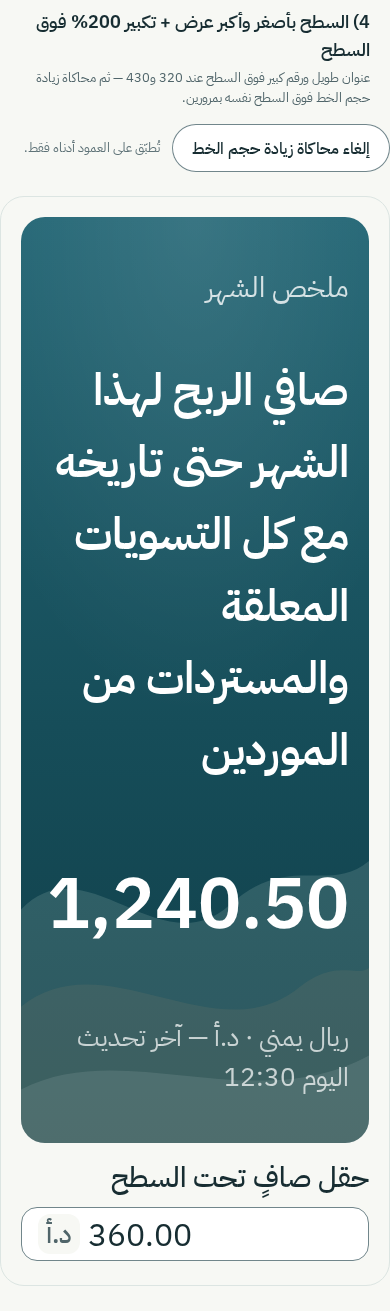
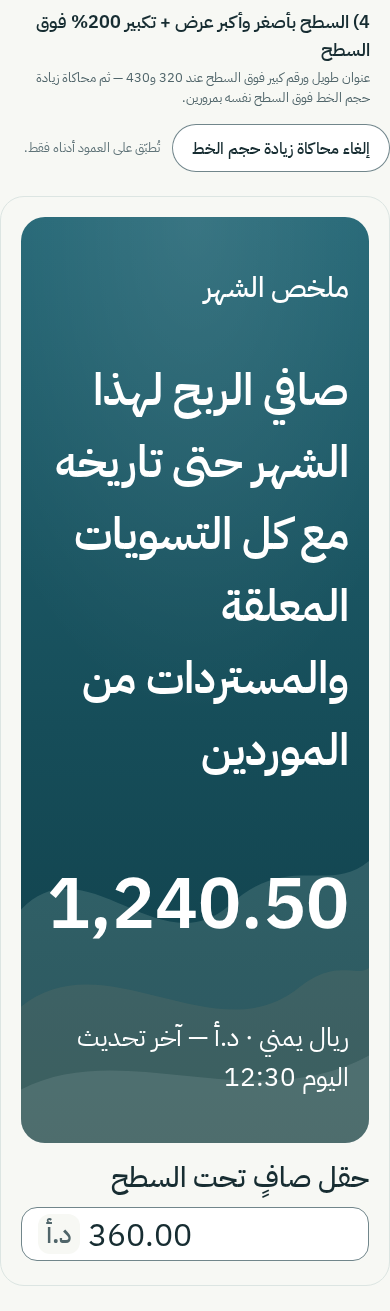
DELIVERY-R3: أدلة ومع سجلات من شجرة commit المصدر 1c2452e (بصمة الشجرة في رأس السجلين) — S01 35/35 (بوابة C1: أدوار النص الأربعة أبيض مصمت في الافتراضي وv2 بالوضع العادي والتكبير بقياس موضعي فعلي من الإحداثيات نفسها بعد إخفاء رسم النص + تحكم يكشف 0.72 المزالة فشلًا 4.09:1) · B05 26/26 (A17: مقام صفر

diff --git a/docs/UI-COVERAGE-RESULTS.md b/docs/UI-COVERAGE-RESULTS.md
@@ -1,7 +1,8 @@
 # نتائج تغطية تكليف UI — لكل معرف من المصفوفة (UI-COVERAGE-RESULTS)
 
 الحالة: DRAFT FOR RE-REVIEW — هذا تقرير تغطية موثق بالأدلة من المصدر نفسه، وليس ادعاء اكتمال شامل. الحدود غير المفحوصة معلنة في كل تقرير دفعة (قارئ شاشة فعلي، لمس حقيقي، متصفحات غير Chromium، تكبير النظام الأصلي، هاتف حقيقي).
-الدفعات: B01 على فرع `task/b01-buttons` (PR #1 — DRAFT FOR RE-REVIEW، head `71ffff1`)؛ وB02–B07 وS01 على `task/ui-library-expansion` (PR #2 تابع لـ#1 — DRAFT FOR RE-REVIEW بعد DELIVERY-R2، head يتضمن `71ffff1` بدمج عادي 0317cf5). commit مصدر أدلة كل دفعة + بصمة شجرة المصدر مدوّنان في `reviews/<batch>/verification.txt` — أدلة هذه الجولة كلها من شجرة commit المصدر `f4cddd4` (نظيفة).
+الدفعات: B01 على فرع `task/b01-buttons` (PR #1 — DRAFT FOR RE-REVIEW، head `71ffff1`)؛ وB02–B07 وS01 على `task/ui-library-expansion` (PR #2 تابع لـ#1 — DRAFT FOR RE-REVIEW بعد DELIVERY-R3، head يتضمن `71ffff1` بدمج عادي 0317cf5). commit مصدر أدلة كل دفعة + بصمة شجرة المصدر مدوّنان في `reviews/<batch>/verification.txt` — أدلة S01/B05 للجولة الأخيرة من شجرة commit المصدر `1c2452e` (نظيفة)، وسجلات بقية الدفعات من شجرة `f4cddd4` (لم تتغير ملفاتها).
+توضيح تسمية بيئة الفحص (C1): فحوص المنفذ تعمل بمتصفح headless فعلي (Playwright + Chromium) — ليست محاكاة DOM؛ قياسات التباين الموضعية من لقطات بكسل حقيقية للمتصفح. حدود الفحوص المعلنة دون تغيير: لا قارئ شاشة فعلي، لا جهاز لمس، لا متصفحات غير Chromium، لا تكبير نظام/متصفح أصلي، لا هاتف حقيقي.
 أمر تشغيل المعاينات: `python3 -m http.server 8080` من جذر نسخة نظيفة ثم `/previews/` — فهرسها: `previews/index.html`.
 
 ## DELIVERY-R1 — إصلاحات E01–E12 (PR #2 وما يخص B01 في #1)
@@ -36,6 +37,16 @@ commit المصدر للأدلة: `f4cddd4` (بصمة الشجرة `1b1179673bec
 | R2-05 | `components/data/data.js` · `components/data/specification.md` · `previews/data/index.html` | تحليل رقم كامل لا بادئة (`12oops` مجهول لا 12) لكل القيم وdata-max/data-rmax/data-total؛ donut: «لا قيمة صالحة» مركز «—» وتسمية «لا توجد بيانات» (لا صفر)، «قيم معلومة كلها صفر» صادقة (المقام المعلن أو 0)، «خلط مجهول/صفر» → «الإجمالي غير معلوم»؛ المقام الغائب → مجموع الفئات (بديل موثق)، والمقام الموجود غير الصالح → رسالة خطأ صريحة لا سقوط صامت | B05 A10 (تحديث: التوزيع الصفري بالمقام المعلن 100 في المركز بلا NaN) · A12 (all-null / all-zero / mix null-zero / `12oops` / مقام غائب 4+6→10 / `data-total="bad"` → خطأ صريح)؛ بقيت فحوص النسب الصغيرة والفجوة وتجاوز المقام (A6/A10/A11) | `f4cddd4` |
 | R2-06 | `components/fields/fields.js` · `components/selection/selection.js` | معرف الرسالة يفحص المستند كله قبل الإسناد (معرف موجود مثل `m-field-msg-1` لا يُعاد استعماله والموجود يُحفظ)؛ `setSwitchPending(sw,false)` بلا دورة سابقة لا يلمس disabled إطلاقًا (معطل أصلًا يبقى معطلًا، وتكرار false بعد دورة آمن)؛ حماية التقاطع أثناء data-pending تعكس تبديل المستخدم الموثوق فقط (`isTrusted`) ولا تعكس إشعارًا برمجيًا | B02 A14 (معرف مأخوذ مسبقًا → الجديد لا يتصادم ومرتبط بالحقل) · B03 A16 (false قبل دورة ومرتين بعدها لا يغيّران الحالة، معطل أصلًا يبقى معطلًا، الإشعار البرمجي لا يُعكس كتبديل) | `f4cddd4` |
 | R2-07 | `previews/surfaces/example-usage.html` (جديد) · `previews/index.html` · المواصفات (surfaces/selection/data) · `tools/*` (بصمة الشجرة في كل سجل) | مثال S01 المستقل بمصدر منفصل عن اللوحة وفحوص مدمجة (الموجة من الأصل الواحد، المفاتيح تنعكس وتستعاد، حدود حروف داخل السطح، لفّ الرقم الطويل، أسطر بلا تداخل) + بطاقة في الفهرس؛ **أدلة كل الدفعات أُعيد توليدها بعد تثبيت commit المصدر** — كل verification.txt يحمل commit المصدر وبصمة الشجرة (لا ادعاء رأس قديم لملفات معدلة)؛ توثيق عقد المنتقي وحالات donut وحدود السطح في المواصفات دون أرقام متناقضة | S01 EX (المثال المستقل: 0 فشل بلا أخطاء) + لقطة `07-example-surface.png`؛ 8 ملفات `previews/*/example-usage.html`؛ رؤوس `reviews/*/verification.txt` = `f4cddd4` + البصمة | `f4cddd4` |
+
+## DELIVERY-R3 — إصلاحات C1/C2 (PR #2 — فرع التوسعة)
+
+commit المصدر للأدلة: `1c2452e` (بصمة الشجرة `c6a4bf2db391f837d3e527b4b200f04e9ae151e2` — مدونة في رأس سجلي S01/B05). الأدلة أُعيد توليدها من شجرة الcommit نفسه نظيفة بعد تثبيته، وتقرأ الأداة من نسخة مستنسخة نظيفة بخرج مطابق حرفيًا. أُعيد فقط فحوص S01/B05 والحالات المرتبطة بالتغييرات (لا إعادة بناء للعائلات ولا فتح للبنود المغلقة): **S01 35/35 · B05 26/26** + أداة التباين (خروج 0 — 20 زوجًا، فاشل داخل المجال: لا شيء) + selftest ناجح. المتبقي من R2 كله مغلق كما هو.
+
+| البند | الملف | ما تغيّر | دليل التحقق | commit المصدر |
+|---|---|---|---|---|
+| C1 | `components/surfaces/surfaces.css` · `components/surfaces/specification.md` · `tools/contrast-check.py` · `tools/s01-screenshots.py` · `previews/surfaces/example-usage.html` · `reviews/S01/review.md` | **نص المعلومات فوق الأسطح البترولية أبيض مصمت افتراضيًا**: `label` (كان 0.8) و`sub` (كان 0.72) صارا `--micro-text-inverse` — لا لون جديد ولا تغيير هوية؛ تمييز المستويات بالحجم (14/13) والوزن (600/600/500/400) وإيقاع السطر لا بالشفافية (تباعد الحروف يكسر اتصال العربية فلا يُستعمل). القيم الشفافة أُزيلت من المكوّن — أي درجة أخف تبقى موسمًا مرجعًا (contrast-check §3) ولا يوجد صنف يشحنها (خارج API الجاهز بوضوح). **بوابة كل أدوار النص**: title/amount/label/sub داخل المجال المضمون صفًا لكل دور، وكذلك أدوار مرشح v2 المستخدمة فعليًا. **القياس الموضعي المصحح**: بديل `sample_contrast` القديمة التي كانت تختار «الخلفية» بأفتح بكسل دون 85% من أقصى إضاءة فتلتقط حواف الحروف الملساء (رقم 2.09 السابق لم يُعتمد) — الخلفية الآن من الإحداثيات نفسها بعد إخفاء رسم النص (`color: transparent` — layout ثابت) ثم مقارنة اللون الممزوج من قيم النص الفعلية بها، مع الرسم الفعلي كسند؛ **الحد المحافظ المحسوب مُميَّز صراحة عن القياس الموضعي** في التقرير والسجل. **اختبار تحكم**: القيمة المزالة 0.72 تُحقن داخل النطاق فيكشفها الكاشف فشلًا فعليًا (4.09:1) ثم ينجح الافتراضي (6.01:1)؛ selftest الأداة موسع بتحكمين فاشلين ونجاح واحد | سجل S01: A6b (ألوان/أوزان الأدوار المحسوبة) · B2c الافتراضي 390 (6.75/9.93/6.01/6.80) · B2c-v2 390 (6.47/8.45/9.78) · B2d v2 تكبير 200% (6.10/7.84/9.61) · B2b عند 320 تكبير 200% للأدوار الأربعة (6.09/10.07/5.57/6.96) · B2e التحكم · خلفيات حقيقية من الإحداثيات نفسها لا حواف حروف · contrast-check: أدوار الافتراضي 4.88:1 وv2 5.61:1 حدًا محافظًا — خروج 0 | `1c2452e` |
+| C2 | `components/data/data.js` · `components/data/specification.md` | **المقام المعلن صفرًا/سالبًا لا يُتجاهل** — كان `declared > 0` وحده مقامًا صالحًا و`declaredInvalid` لفشل التحليل فقط، فيسقط `data-total="0"` و`"-5"` صامتًا إلى مجموع الفئات ويعرضان 10 / 40% / 60% بلا خطأ. الآن: **سالب معلن** → حالة غير صالحة صريحة (رسالة، دون نسب)؛ **صفر مع قيم موجبة** → تعارض صريح بلا استبدال المقام بالمجموع؛ **صفر وقيم معلومة كلها صفر** → الحالة الصفرية الموثقة دون قسمة (المركز 0، والمجهول يبقى «— غير متاح» في المفتاح — فرق الصفر عن المجهول محفوظ حتى مع مقام صفر وفئات مجهولة)؛ **الغائب فقط** يستعمل البديل الموثق (مجموع الفئات). حالات bad/∞ والفقد والقيم السالبة والمجموع الأكبر من المقام كما أُصلحت سابقًا دون تغيير | B05 A17 (توسيع اختبار الحدود): `[4,6]` مع `data-total="0"` → خطأ تعارض صريح بلا توزيع ولا نسب، ومع `"-5"` → خطأ غير صالح صريح؛ صفر مع كل قيم صفر → مركز «0» مستقر بلا NaN؛ صفر مع `[0, مجهول]` → مركز «0» والمجهول «—»؛ الغائب → مجموع 10 بنسب والموجب 10 → توزيعان طبيعيان كما وُثقا؛ بقيت A10/A12 (المقام المعلن 100 للصفري، وbad، و12oops، والخلط بلا مقام) ناجحة | `1c2452e` |
+| تسمية | `docs/UI-COVERAGE-RESULTS.md` · `components/surfaces/specification.md` §7 · `reviews/S01/review.md` | تصحيح تسمية بيئة الفحص: فحوص المنفذ **متصفح headless فعلي (Playwright + Chromium) لا محاكاة DOM** — والقياس الموضعي من لقطات بكسل حقيقية. حدود الفحوص المعلنة دون تغيير (لا قارئ شاشة فعلي، لا لمس، لا متصفحات غير Chromium، لا تكبير نظام أصلي، لا هاتف حقيقي) | سطر التسمية في رأس `verification.txt` لـS01 وفي ترويسة هذا التقرير و§7 من مواصفات السطح | `1c2452e` |
 
 ## B01 — تصحيحات جولتي المراجعة (PR #1)
 

diff --git a/reviews/S01/review.md b/reviews/S01/review.md
@@ -1,14 +1,14 @@
 # مراجعة دفعة S01 — المعالجة البترولية والحركة
 
-الحالة: **DRAFT FOR REVIEW**
+الحالة: **DRAFT FOR RE-REVIEW** (بعد DELIVERY-R3/C1)
 المنتج: معالجة سطح مستقلة قابلة للتحرير (تدرج+إضاءة+موجات من أصول SVG) بأربع حالات للمقارنة + الحركة المشتركة `shared/motion.css` مع مقارنة حية وتقليلها.
 المرجع: `docs/UI-LIBRARY-EXECUTION-BRIEF.md` §5-S01 ومصفوفة التغطية SURF-01 وMOT-01.
 الفرع: `task/ui-library-expansion` — PR #2 تابع لـ#1. commit مصدر اللقطات: مدوّن في `verification.txt`.
 
 ## بيئة الفحص الفعلية
 
-- Chromium headless (Playwright) عبر `tools/s01-screenshots.py` من جذر المستودع.
-- **14/14 فحصًا ناجحًا** — السجل: `reviews/S01/verification.txt`.
+- **متصفح headless فعلي** (Playwright + Chromium) عبر `tools/s01-screenshots.py` من جذر المستودع — تشغيل متصفح فعلي لا محاكاة DOM. قياسات التباين الموضعية من لقطات بكسل حقيقية للمتصفح.
+- **35/35 فحصًا ناجحًا** — السجل: `reviews/S01/verification.txt`. منها بوابة C1: أدوار النص الأربعة في الافتراضي وv2 بالوضع العادي والتكبير + اختبار تحكم يكشف حالة فاشلة.
 - فحص الشكل: فُتحت اللقطات فعليًا — الموجات خافتة تحت النص دون تداخل، الأربع مقارنات متجاورة بنفس النص للقياس العادل، والمقابض الحية تعمل.
 
 ## جدول البنود — المطلوب، التنفيذ، الدليل
@@ -29,13 +29,14 @@
 |---|---|---|
 | نمط الموجات الخافتة كمعالجة أساسية | `m-surface--waves` (waves-soft.svg) | المرشح الأول في التكليف — ينتظر اعتماد المالك |
 | شفافيات طبقات الموجة داخل الأصل | 0.08–0.22 | قيم PROPOSED داخل الأصل القابل للتحرير |
-| تسميات شفافة فوق الداكن | أبيض 0.8/0.72 | زوج محسوب 4.61/4.55:1 — بديل نصي ثانوي فوق الداكن |
+| تنقيح الموجة v2 | `waves-soft-v2.svg` (E12) | مقارنة قبل/بعد بانتظار المالك — أدوار مستخدميه تدخل بوابة C1 وتُغلقها (5.61:1 حد محافظ) |
 | الإضاءة العلوية | `--micro-surface-light: 0.10` | مفتاح جديد موسوم |
 | المنحنى الموحد للحركة | `--micro-ease-standard` cubic-bezier(0.2,0,0,1) | قائم من B01 — يوسم مقترحًا حتى يثبت في الأسس |
+| ~~تسميات شفافة فوق الداكن 0.8/0.72~~ | أُزيلت (C1) | كانت تسقط دون عتبة النص في مواضع فعلية — كل الأدوار أبيض مصمت الآن، ومرجع القيم المزالة موسوم في contrast-check §3 |
 
 ## لم يتم التحقق منه (تصريح)
 
-أداء المعالجة على هاتف حقيقي (رسم SVG خلفية)؛ قياس تباين على شاشة فعلية (المحسوب من قيم الأسس worst-case)؛ متصفحات غير Chromium؛ لمس حقيقي.
+أداء المعالجة على هاتف حقيقي (رسم SVG خلفية)؛ قياس تباين على شاشة فعلية (المحسوب تحليليًا من أسوأ تركيب + القياس الموضعي من لقطات المتصفح — رقمان مختلفا الغرض معلنان)؛ متصفحات غير Chromium؛ لمس حقيقي؛ قارئ شاشة فعلي.
 
 ## ملفات الدفعة
 

diff --git a/docs/CURRENT-STATE.md b/docs/CURRENT-STATE.md
@@ -1,5 +1,13 @@
 # تحديث الحالة — 2026-09-28
 
+## بعد DELIVERY-R3 (إصلاحات C1/C2)
+
+- PR #2 (task/ui-library-expansion): head DELIVERY-R3 — **commit المصدر `1c2452e`** (بصمة الشجرة `c6a4bf2d…`) ثُبت قبل توليد الأدلة، وأدلة S01/B05 أُعيد توليدها من شجرته نظيفة، وسجل B01 لم يُلمس (head `71ffff1`).
+- **C1 مغلق**: كل أدوار النص فوق الأسطح البترولية أبيض مصمت افتراضيًا (label كانت 0.8 وsub كانت 0.72 — أزيلت الشفافية من المكوّن) والتمييز بالحجم/الوزن/الإيقاع؛ بوابة الأدوار الأربعة في الافتراضي وv2 تدخل رمز الخروج؛ القياس الموضعي بخلفية من الإحداثيات نفسها بعد إخفاء رسم النص (بديل طريقة أفتح بكسل دون 85% التي تلتقط حواف الحروف — رقم 2.09 السابق لم يُعتمد)؛ الحد المحافظ المحسوب مُميّز عن القياس الموضعي؛ اختبار تحكم يثبت أن الحالة الفاشلة داخل النطاق تُعلن فشلًا فعليًا (محقون 4.09:1 ثم الافتراضي 6.01:1).
+- **C2 مغلق**: المقام المعلن صفرًا/سالبًا لا يُتجاهل — السالب غير صالح صريح، والصفر مع قيم موجبة تعارض صريح بلا استبدال بالمجموع، والصفر مع كل قيم صفر حالة صفرية موثقة (المجهول يبقى «—»)، والغائب فقط يستعمل البديل الموثق.
+- **تسمية بيئة الفحص مصححة**: فحوص المنفذ متصفح headless فعلي (Playwright + Chromium) لا محاكاة DOM — وحدود الفحوص المعلنة دون تغيير (لا قارئ شاشة فعلي، لا لمس، لا متصفحات غير Chromium، لا تكبير نظام أصلي).
+- فحوص الجولة: S01 35/35 · B05 26/26 + أداة التباين (خروج 0) + selftest ناجح. الترشيحات البصرية الثلاثة بقيت كما هي (24px للزر الطويل، التحميل B، الموجة v2) بانتظار اعتماد المالك — لا دمج ولا نشر.
+
 ## بعد DELIVERY-R2 (إصلاحات R2-01..R2-07)
 
 - PR #1 (task/b01-buttons): head `71ffff1` — بلا تغيير في هذه الجولة؛ أُدخل في فرع التوسعة بدمج عادي (0317cf5) بلا force-push.

diff --git a/docs/ARTIFACTS.md b/docs/ARTIFACTS.md
@@ -40,8 +40,8 @@ README وAGENTS وCURRENT-STATE وWORKFLOW ملفات تنظيم عمل أضيف
 | `components/fields/` + `previews/fields/` | DRAFT FOR RE-REVIEW | B02 الحقول: فحوص 27/27 — بعد R2-06 (تفرد معرف الرسالة بالمستند) |
 | `components/selection/` + `previews/selection/` | DRAFT FOR RE-REVIEW | B03 الاختيار: فحوص 25/25 — بعد R2-03 (حالة قراءة موحدة للمنتقي) وR2-06 (ثبات عقود المفتاح) |
 | `components/organization/` + `previews/organization/` | DRAFT FOR RE-REVIEW | B04 التنظيم: فحوص 15/15 |
-| `components/surfaces/` + `assets/surfaces/` + `shared/motion.css` + `previews/surfaces/` | DRAFT FOR RE-REVIEW | S01 الأسطح والحركة: فحوص 21/21 — بعد R2-01 (سطور نسبية ولفّ رقم طويل) وR2-04 (عينات بكسل) + مثال مستقل |
-| `components/data/` + `previews/data/` | DRAFT FOR RE-REVIEW | B05 البيانات والتتبّع: فحوص 25/25 — بعد R2-05 (تحليل رقم كامل وتمييز مفقود/صفر/مقام غير صالح) |
+| `components/surfaces/` + `assets/surfaces/` + `shared/motion.css` + `previews/surfaces/` | DRAFT FOR RE-REVIEW | S01 الأسطح والحركة: فحوص 35/35 — بعد R2-01 (سطور نسبية ولفّ رقم طويل) وR2-04 (عينات بكسل) وC1 (نص مصمت وبوابة الأدوار الأربعة وقياس موضعي مصحح) + مثال مستقل |
+| `components/data/` + `previews/data/` | DRAFT FOR RE-REVIEW | B05 البيانات والتتبّع: فحوص 26/26 — بعد R2-05 (تحليل رقم كامل وتمييز مفقود/صفر/مقام غير صالح) وC2 (مقام صفر/سالب معلن لا يُتجاهل) |
 | `components/messages/` + `previews/messages/` | DRAFT FOR RE-REVIEW | B06 الرسائل والحالات: فحوص 17/17 |
 | `components/navigation/` + `previews/navigation/` | DRAFT FOR RE-REVIEW | B07 التنقّل والطبقات: فحوص 28/28 — بعد R2-02 (دورة حياة الطبقة الآمنة) |
 | `previews/index.html` + `previews/board-base.css` + `previews/board.js` | DRAFT | فهرس المعاينات والبنية المشتركة لفرع التوسعة |
